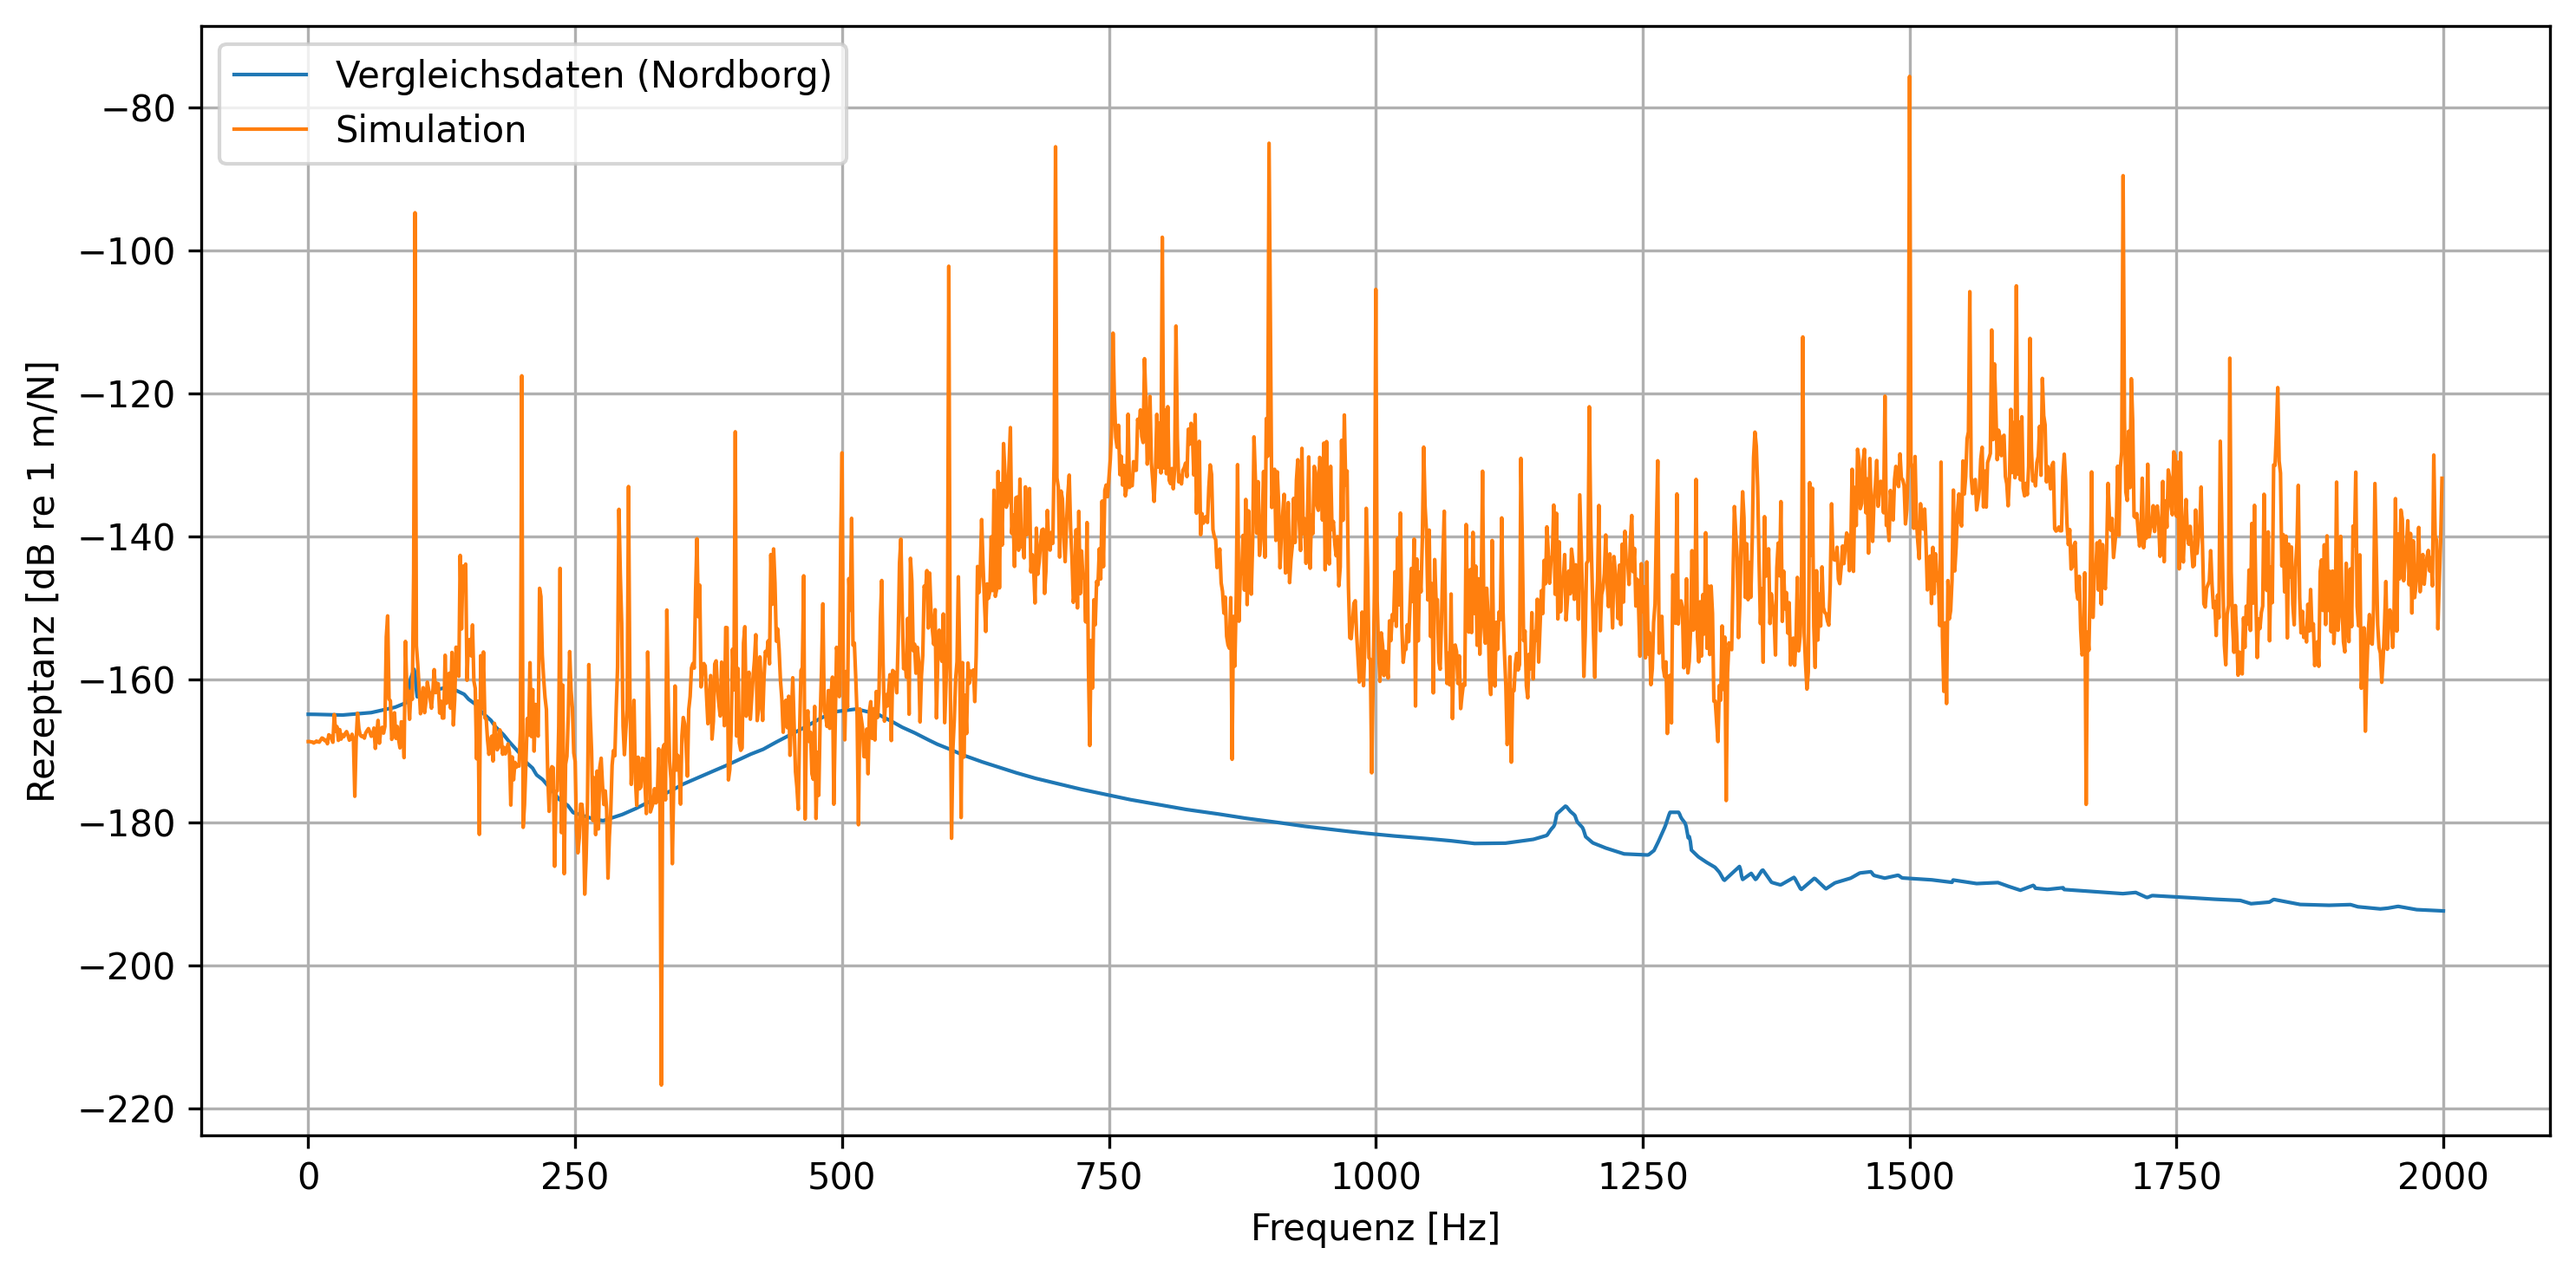
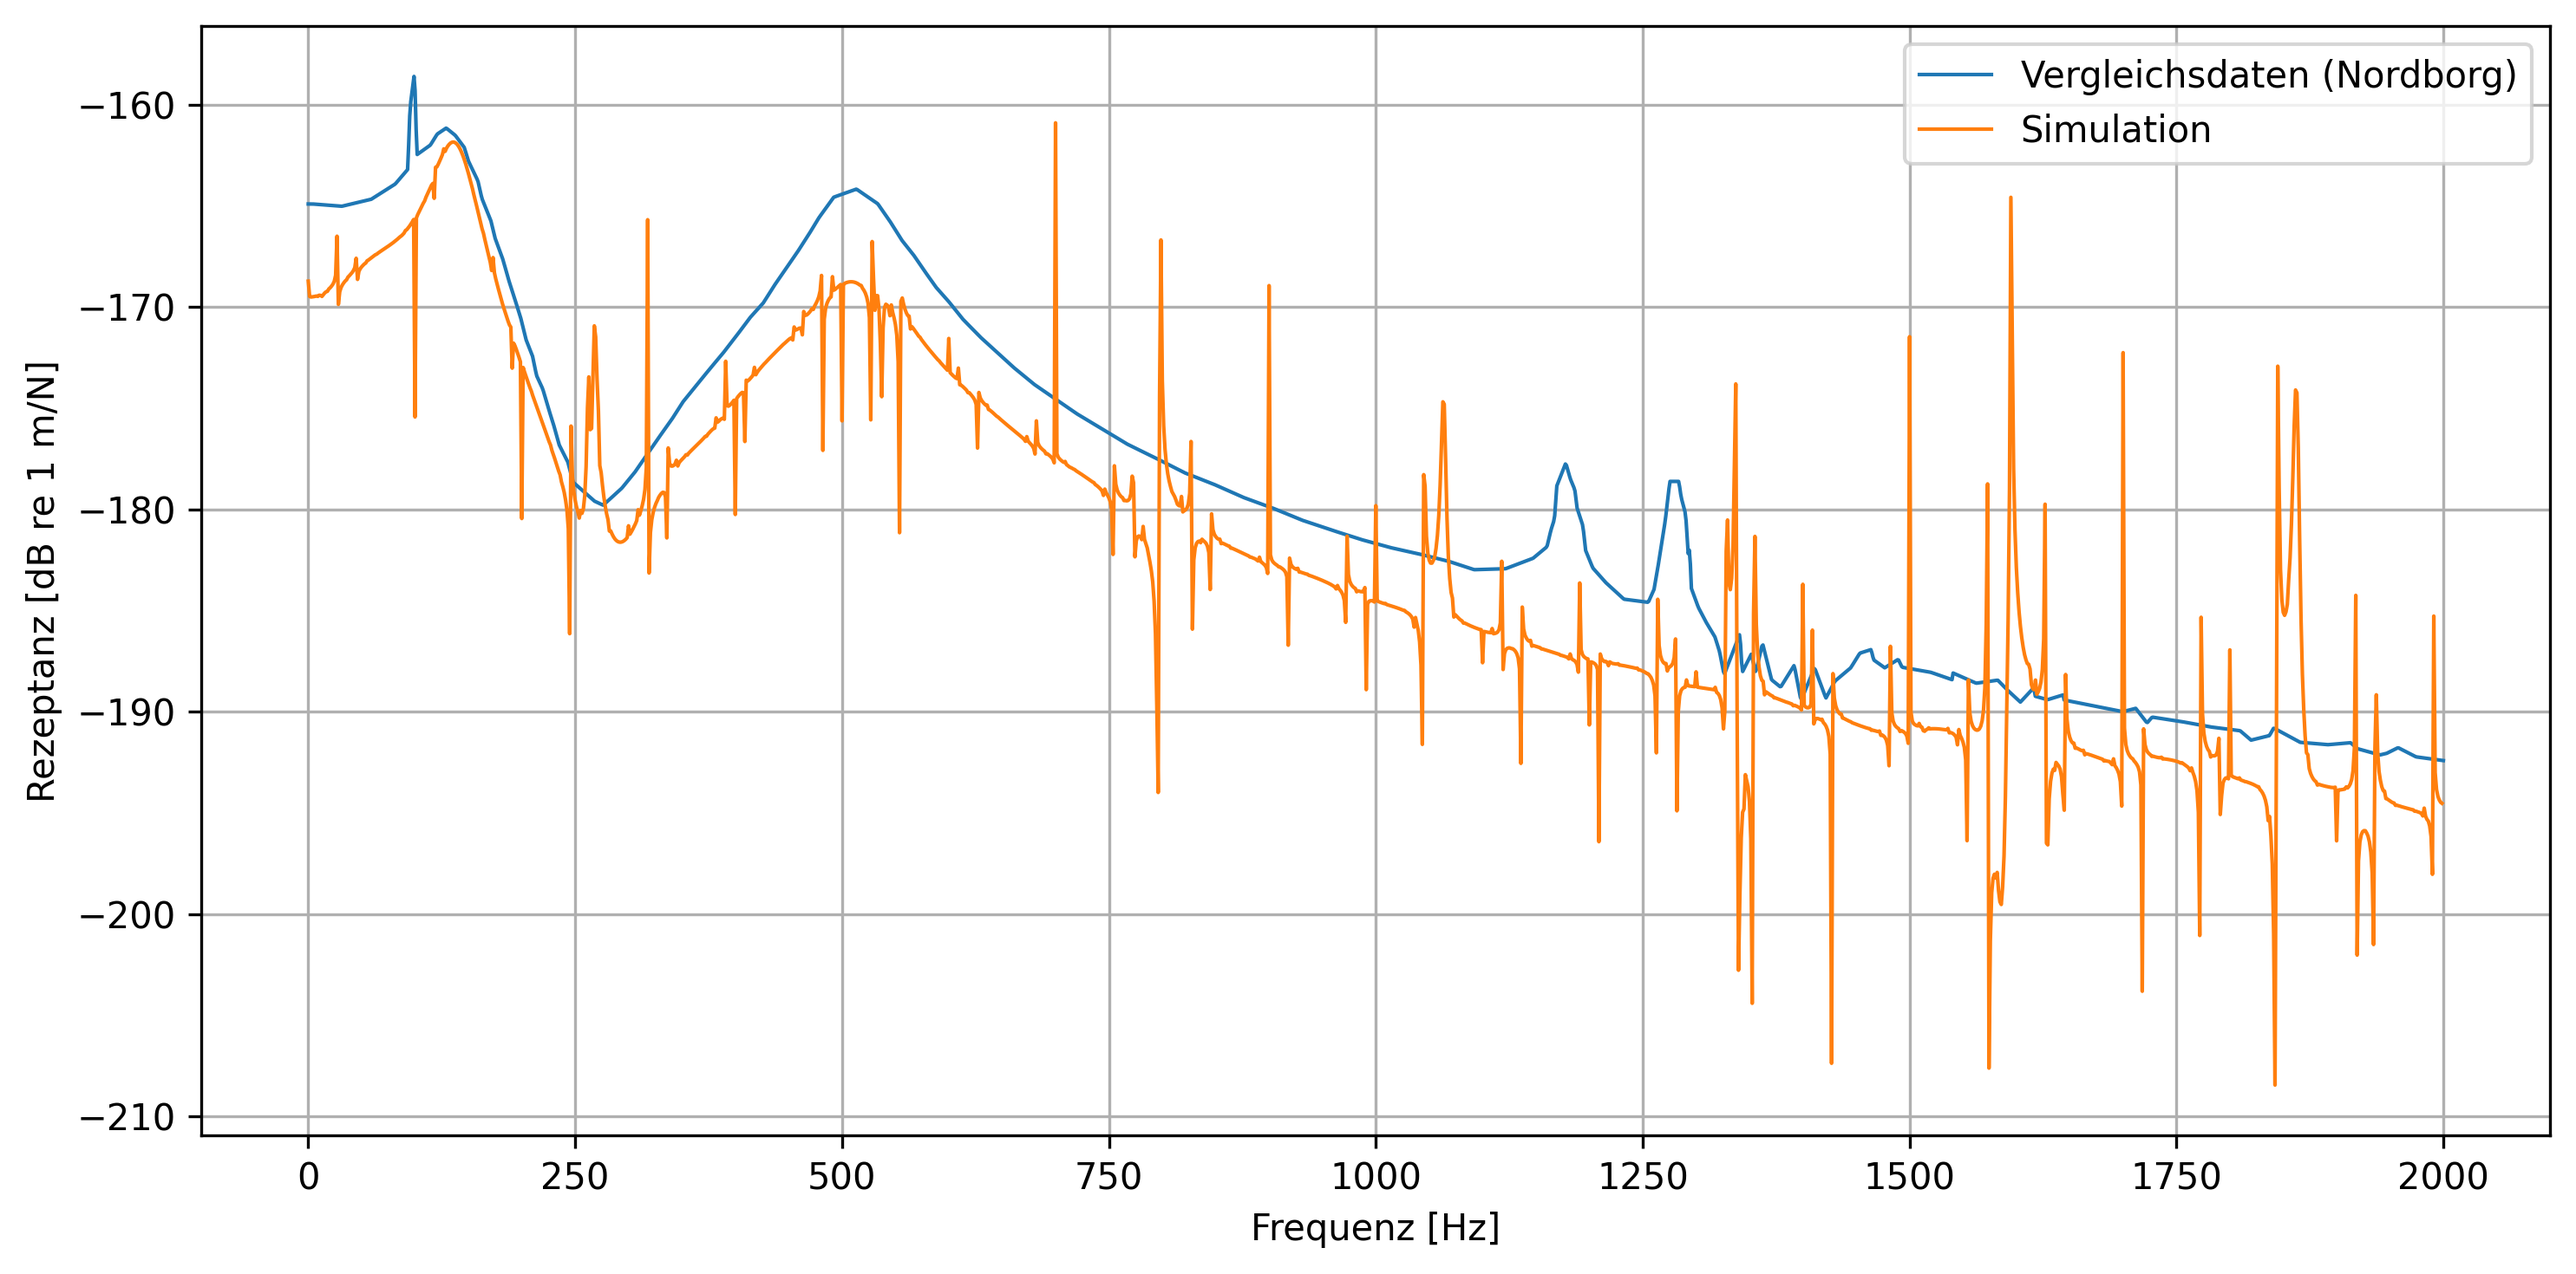
contact model running! mediocre results

diff --git a/rolland/deflection.py b/rolland/deflection.py
@@ -167,6 +167,7 @@ class DeflectionEBBVertic(Deflection):
                 static_force = self.excit.force_amplitude  # Static force at t=0, can be adjusted if needed
                 delta_0 = C*static_force**(2/3)  # Initial guess for penetration based on static force, can be adjusted if needed
 
+
                 # NOTE: needs changes to be multi-wheel compatible
                 for i in range(max_iter):
                     # Calculate rail deflection, roughness, and wheel deflection
@@ -174,15 +175,24 @@ class DeflectionEBBVertic(Deflection):
                     lower_idx = int(np.floor(pos))
                     upper_weight = pos - lower_idx
                     lower_weight = upper_idx - pos
+                    # if t == len(self.force):
+                    #     final_upper_idx = int(np.ceil(self.final_pos))
+                    #     final_lower_idx = int(np.floor(self.final_pos))
+                    #     final_upper_weight = final_pos - final_lower_idx
+                    #     final_lower_weight = final_upper_idx - final_pos
+                    #     y_static = final_lower_weight*u1[final_lower_idx] + final_upper_weight*u1[final_upper_idx]
+
                     y_r = lower_weight*u1[lower_idx] + upper_weight*u1[upper_idx]  # Interpolated rail deflection at excitation point
-                    y_s = lower_weight*self.excit.roughness[lower_idx] + upper_weight*self.excit.roughness[upper_idx]  # Interpolated track roughness
+                    # y_s = lower_weight*self.excit.roughness[lower_idx] + upper_weight*self.excit.roughness[upper_idx]  # Interpolated track roughness
                     # y_w = wheel_deflection(force)  # Wheel deflection TODO: add wheel deflection calculation
 
                     # Calculate geometric penetration
-                    ####################### TODO: ADD BACK ROUGHNESS ########################
-                    delta_lin = delta_0 + y_s # NOTE: are the directions of y_r & y_s correct?
+                    # TODO: get this right, check directions of deflection and roughness, and add wheel deflection
+                    # y_r: rail deflection, positive if rail moves downwards
+                    delta_lin = self.y_static - y_r # NOTE: are the directions of y_r & y_s correct?
+                    delta_lin += delta_0
 
-                    if delta_lin <= 0:
+                    if delta_lin <= 0: # NOTE: should we check before adding delta_0?
                         force = 0
                         self.force.append(force)  # Store the converged force value for the current time step
                         break
@@ -201,6 +211,8 @@ class DeflectionEBBVertic(Deflection):
                     print("Warning: Hertzian contact calculation did not converge.")
             else:
                 force = self.force[t]
+                if t == len(self.force)-1:
+                    self.final_pos = pos
 
 
             # distribute force to the two nearest grid points using linear interpolation
@@ -331,6 +343,8 @@ class DeflectionEBBVertic(Deflection):
     
     def crank_nicolson_step(self, defl, t, excitation_pos):
         # Calculate right hand side of equation
+        if t%100 == 0 and t > 4545:
+            debug = True
         b = self.calc_rightside_crank_nicolson(
             defl = defl,
             u1 = defl[:, t-1],
@@ -341,6 +355,18 @@ class DeflectionEBBVertic(Deflection):
         # Calculate deflection for time step t
         u = self.factoriz.solve(b)
         defl[:, t] = u[0:2 * self.discr.nx]
+
+        if t == 4544:   # TODO: this is crazy hardcoded for debugging, needs to be fixed ASAP
+            pos = excitation_pos[0]
+            final_upper_idx = int(np.ceil(pos))
+            final_lower_idx = int(np.floor(pos))
+            final_upper_weight = pos - final_lower_idx
+            final_lower_weight = final_upper_idx - pos
+            self.y_static = final_lower_weight*defl[final_lower_idx, t] + final_upper_weight*defl[final_upper_idx, t]
+
+
+
+
         return
 
 ##################################################################################################################################
